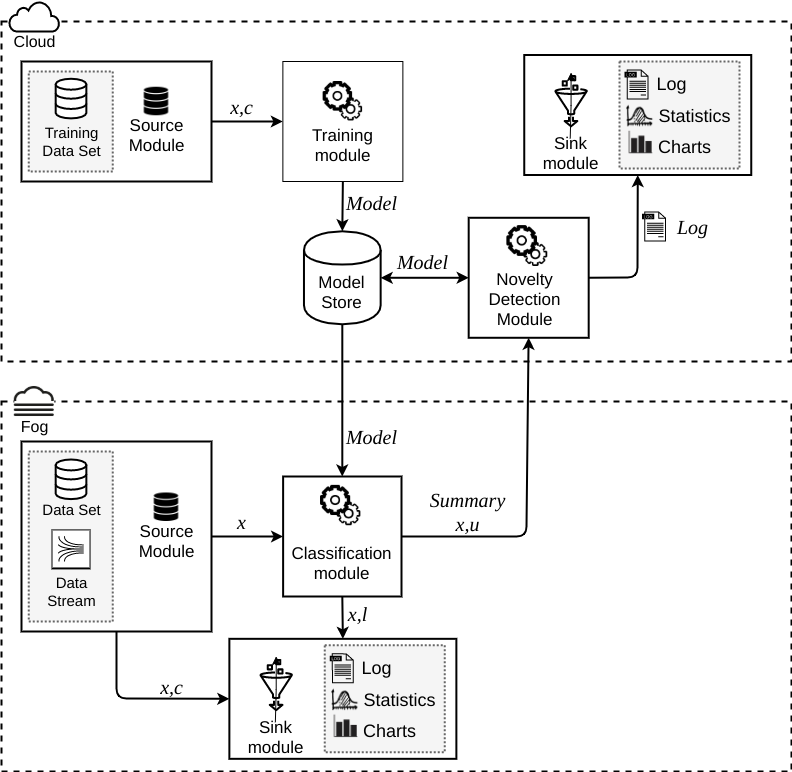
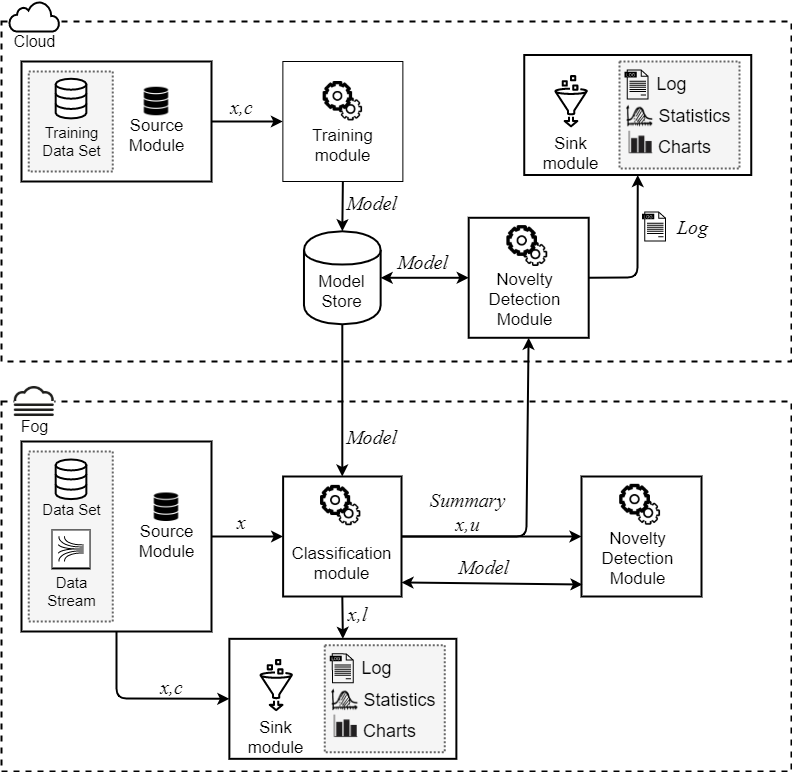
Finished modules description.

diff --git a/04.proposal.tex b/04.proposal.tex
@@ -4,7 +4,7 @@
 % Proposal:
 %  - retomar problema {iot, sec, ND};
 %  - objetivo;
-%  - soluções {minas, paralelismo, distribuído, ~~py-kafka, flink,~~ mpi}
+%  - soluções {MINAS, paralelismo, distribuído, ~~py-kafka, flink,~~ mpi}
 %  - propor uma solução
 
 % \begin{highlight}
@@ -26,7 +26,7 @@
 % and Novelty Detection.
 % These tools require the network packet traffic to be constantly analysed,
 
-
+\newcommand{\minas}{MINAS\xspace}
 
 Este apresenta uma proposta de implementação distribuida do MINAS que segue as diretrizes da arquitetura IDSA-IoT, atendendo aos seguintes requisitos:
 (i) a etapa de classificação de vários fluxos deve ocorrer em paralelo, sendo processada em diversos locais físicos da arquitetura 
@@ -133,16 +133,54 @@ latency between action and reaction is observed.
 % and novelty detection cluster; cloud storage for model, alarms and statistics
 % and; human supervisor addressing alarms and statistics.
 
+While our proposal focuses on fog computing resources, those resources are often limited
+and they do not have the same reach and availability as traditional public cloud.
+For that reason we also leverage the public cloud for model storage and distribution,
+global novelty detection and alarm forwarding.
 
-\ref{fig:mfog-architecture}
-enumerar módulos e funções
-descrever etapas do minas e onde se encaixa
-descrever onde módulos são multiplexados
-descrever casos de muiltiplos fluxos (redes locais)
+In Figure \ref{fig:mfog-architecture} we depict the overall architecture cut down to
+individual modules:
+three main functional modules being Training, Classification
+and Novelty Detection handling MINAS main tasks;
+and three auxiliary Source, Sink and Model Store, addressing external and internal connections
+as well as providing facilities to our tests and experiments.
 
-In Figure \ref{fig:mfog-architecture} we depict each logical component associated
-with each MINAS step and its communications, we also depict extra modules for sampling
-and measurements.
+% enumerar módulos e funções
+% \\descrever etapas do MINAS e onde se encaixa
+% \\descrever onde módulos são multiplexados
+% \\descrever casos de muiltiplos fluxos (redes locais)
+
+\todo{Needs review}
+Source Module provides the input data stream for Offline and Online phases of MINAS
+and is deployed in cloud and in fog for each respective phase and a variant for
+testing on our experiments.
+Model Store is another trivial module handling the initial Model storage and distribution
+for Classification and Novelty Detection modules.
+Last of the auxiliary modules is the Sink module, it denotes the consumer of labeling
+output stream such as an alarm system, however in our implementation it is much more
+complex, handling all tests metrics extraction and evaluations for our experiments,
+aggregating all output (stream and logs) in files for proper analysis and later comparisons.
+This module also differs in its software stack from the C language and MPI library,
+for the ease of implementing such analysis needed by our experiments, 
+courtesy of Pandas and NumPy libraries, we employed Python for this module.
+
+
+Training Module encapsulates the Offline phase of MINAS and its output, being the
+initial model, is stored by the Model Store.
+Classification Module houses the homonymous task of MINAS Online phase and
+is the focal point for parallelism in our proposal,
+being replicated in the fog on each local network containing a cluster with one
+or more nodes and each node multiple processes (limited to the individual CPU core count).
+Novelty Detection Module can be also replicated,
+one instance per local network and one global instance,
+also handling the homonymous task of MINAS Online phase.
+This modules takes as input all samples labeled with \emph{unknown},
+stores them in a internal \emph{unknown} buffer and when this buffer is full,
+triggers MINAS Novelty Detection task (clustering followed by validation).
+
+% In Figure \ref{fig:mfog-architecture} we depict each logical component associated
+% with each MINAS step and its communications, we also depict extra modules for sampling
+% and measurements.
 Each communication in Figure \ref{fig:mfog-architecture} shows the direction of the data flow
 and identifies the data contained:
 $Model$ is MINAS internal Model containing a set of cluster data structures,
